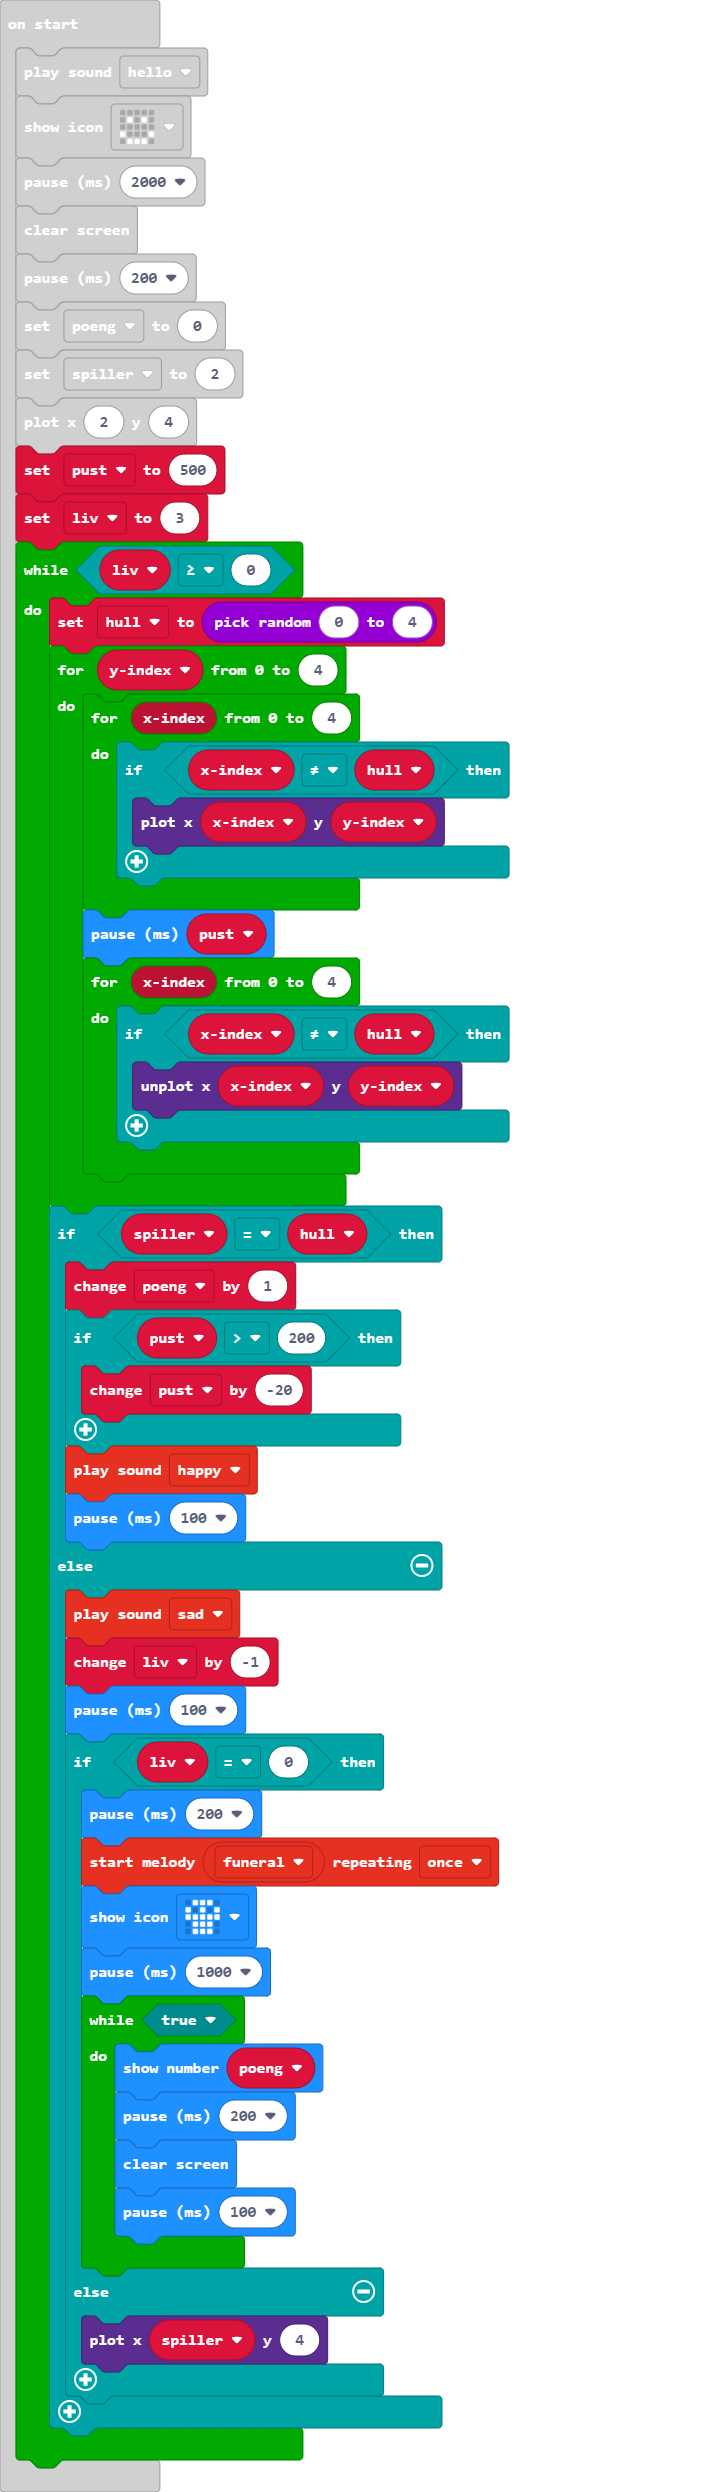
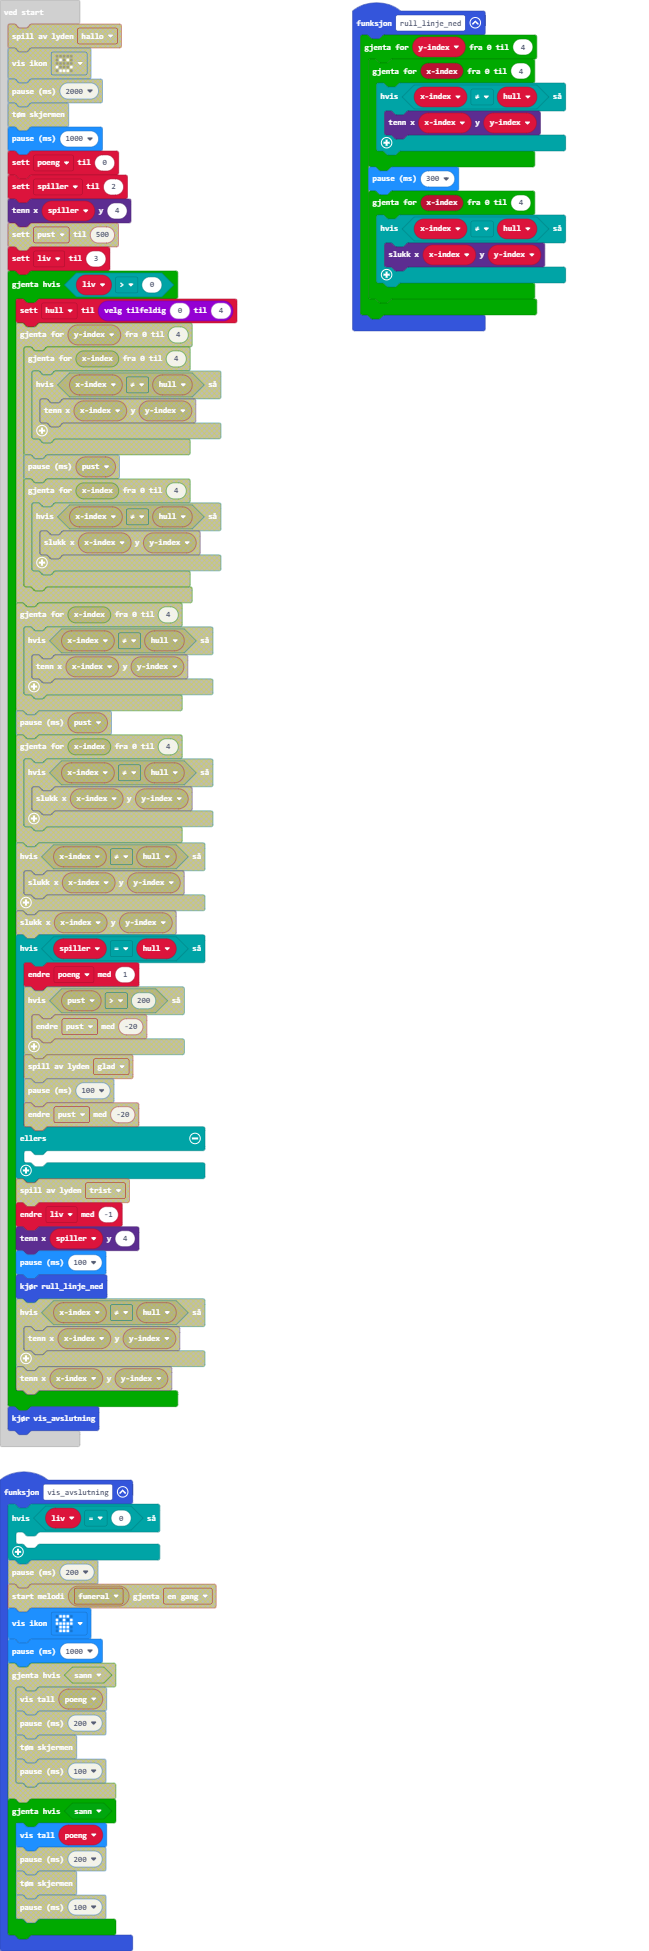
Made simplified version

diff --git a/main.ts b/main.ts
@@ -1,3 +1,12 @@
+function vis_avslutning () {
+    if (liv == 0) {
+        basic.showIcon(IconNames.Skull)
+        basic.pause(1000)
+        while (true) {
+            basic.showNumber(poeng)
+        }
+    }
+}
 input.onButtonPressed(Button.A, function () {
     led.unplot(spiller, 4)
     if (spiller > 0) {
@@ -12,57 +21,39 @@ input.onButtonPressed(Button.B, function () {
     }
     led.plot(spiller, 4)
 })
-let hull = 0
-let spiller = 0
-soundExpression.hello.play()
-basic.showIcon(IconNames.Happy)
-basic.pause(2000)
-basic.clearScreen()
-basic.pause(200)
-let poeng = 0
-spiller = 2
-led.plot(2, 4)
-let pust = 500
-let liv = 3
-while (liv >= 0) {
-    hull = randint(0, 4)
+function rull_linje_ned () {
     for (let yindex = 0; yindex <= 4; yindex++) {
         for (let xindex = 0; xindex <= 4; xindex++) {
             if (xindex != hull) {
                 led.plot(xindex, yindex)
             }
         }
-        basic.pause(pust)
+        basic.pause(300)
         for (let xindex = 0; xindex <= 4; xindex++) {
             if (xindex != hull) {
                 led.unplot(xindex, yindex)
             }
         }
     }
+}
+let hull = 0
+let liv = 0
+let spiller = 0
+let poeng = 0
+basic.pause(1000)
+poeng = 0
+spiller = 2
+led.plot(spiller, 4)
+liv = 3
+while (liv > 0) {
+    hull = randint(0, 4)
+    rull_linje_ned()
     if (spiller == hull) {
         poeng += 1
-        if (pust > 200) {
-            pust += -20
-        }
-        soundExpression.happy.play()
-        basic.pause(100)
     } else {
-        soundExpression.sad.play()
         liv += -1
-        basic.pause(100)
-        if (liv == 0) {
-            basic.pause(200)
-            music.startMelody(music.builtInMelody(Melodies.Funeral), MelodyOptions.Once)
-            basic.showIcon(IconNames.Skull)
-            basic.pause(1000)
-            while (true) {
-                basic.showNumber(poeng)
-                basic.pause(200)
-                basic.clearScreen()
-                basic.pause(100)
-            }
-        } else {
-            led.plot(spiller, 4)
-        }
     }
+    led.plot(spiller, 4)
+    basic.pause(100)
 }
+vis_avslutning()
